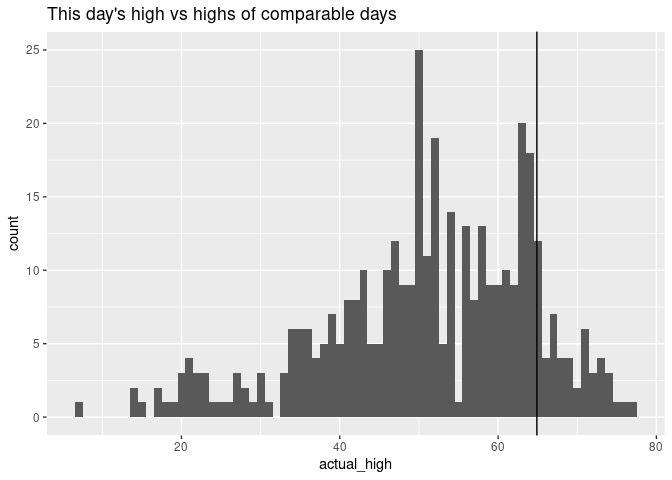
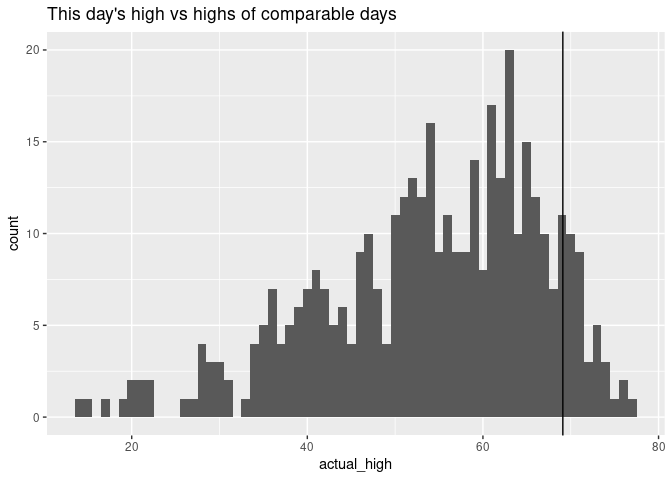
Update rendered quarto docs

diff --git a/readme.md b/readme.md
@@ -7,27 +7,27 @@
 
 - <https://www.ncei.noaa.gov/data/global-summary-of-the-day/doc/readme.pdf>
 
-# High/Low data for 2024-02-26
+# High/Low data for 2024-03-03
 
 ## Updated at
 
-2024-03-05 11:14:18 MST
+2024-03-06 11:15:12 MST
 
 ## Highs
 
-This day’s high of **64.9F** was in the **eighty-seventh percentile**
-for highs in similar days.  
-The last time the high was this high (or higher) was **2024-02-25**,
-when the high was **64.9F**.
+This day’s high of **69.1F** was in the **eighty-ninth percentile** for
+highs in similar days.  
+The last time the high was this high (or higher) was **2024-03-02**,
+when the high was **69.1F**.
 
 ![](readme_files/figure-commonmark/unnamed-chunk-4-1.png)
 
 ## Lows
 
-This day’s low of **34F** was in the **ninety-fourth percentile** for
-lows in similar days.  
-The last time the low was this low (or lower) was **2024-02-25**, when
-the low was **24.1F**.
+This day’s low of **28.9F** was in the **seventy-seventh percentile**
+for lows in similar days.  
+The last time the low was this low (or lower) was **2024-03-02**, when
+the low was **28.9F**.
 
 ![](readme_files/figure-commonmark/unnamed-chunk-6-1.png)
 
